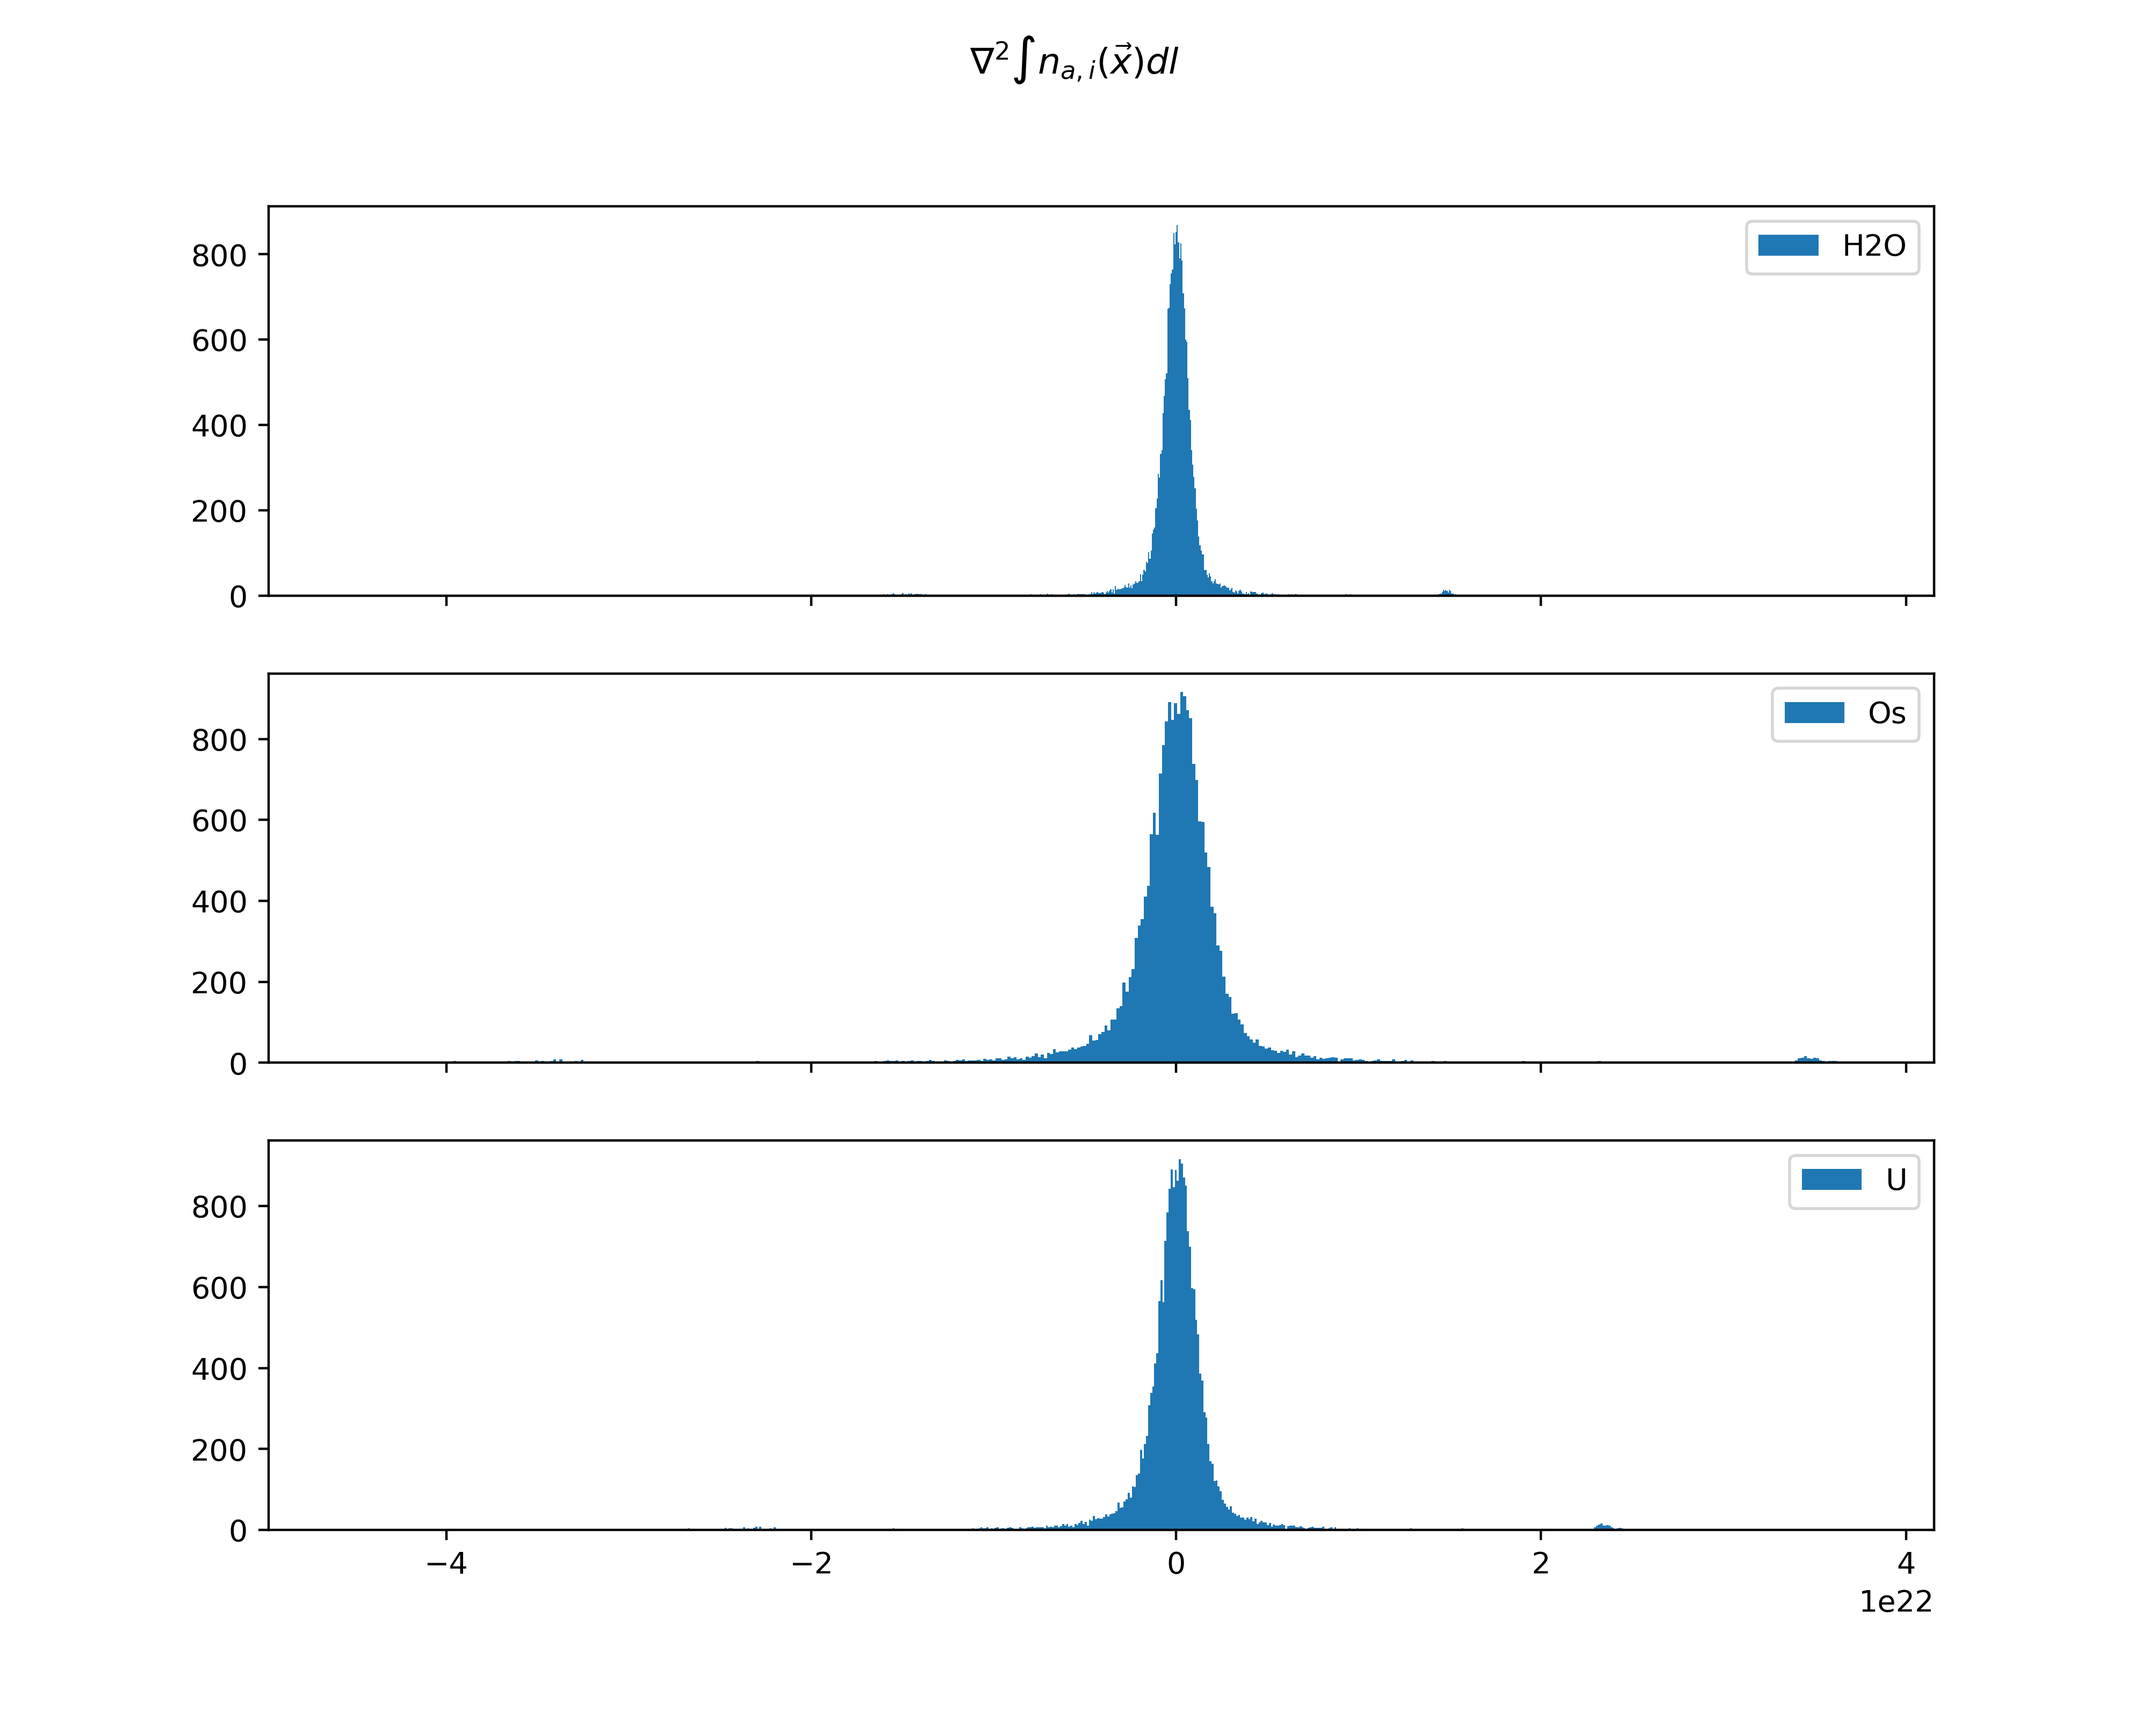
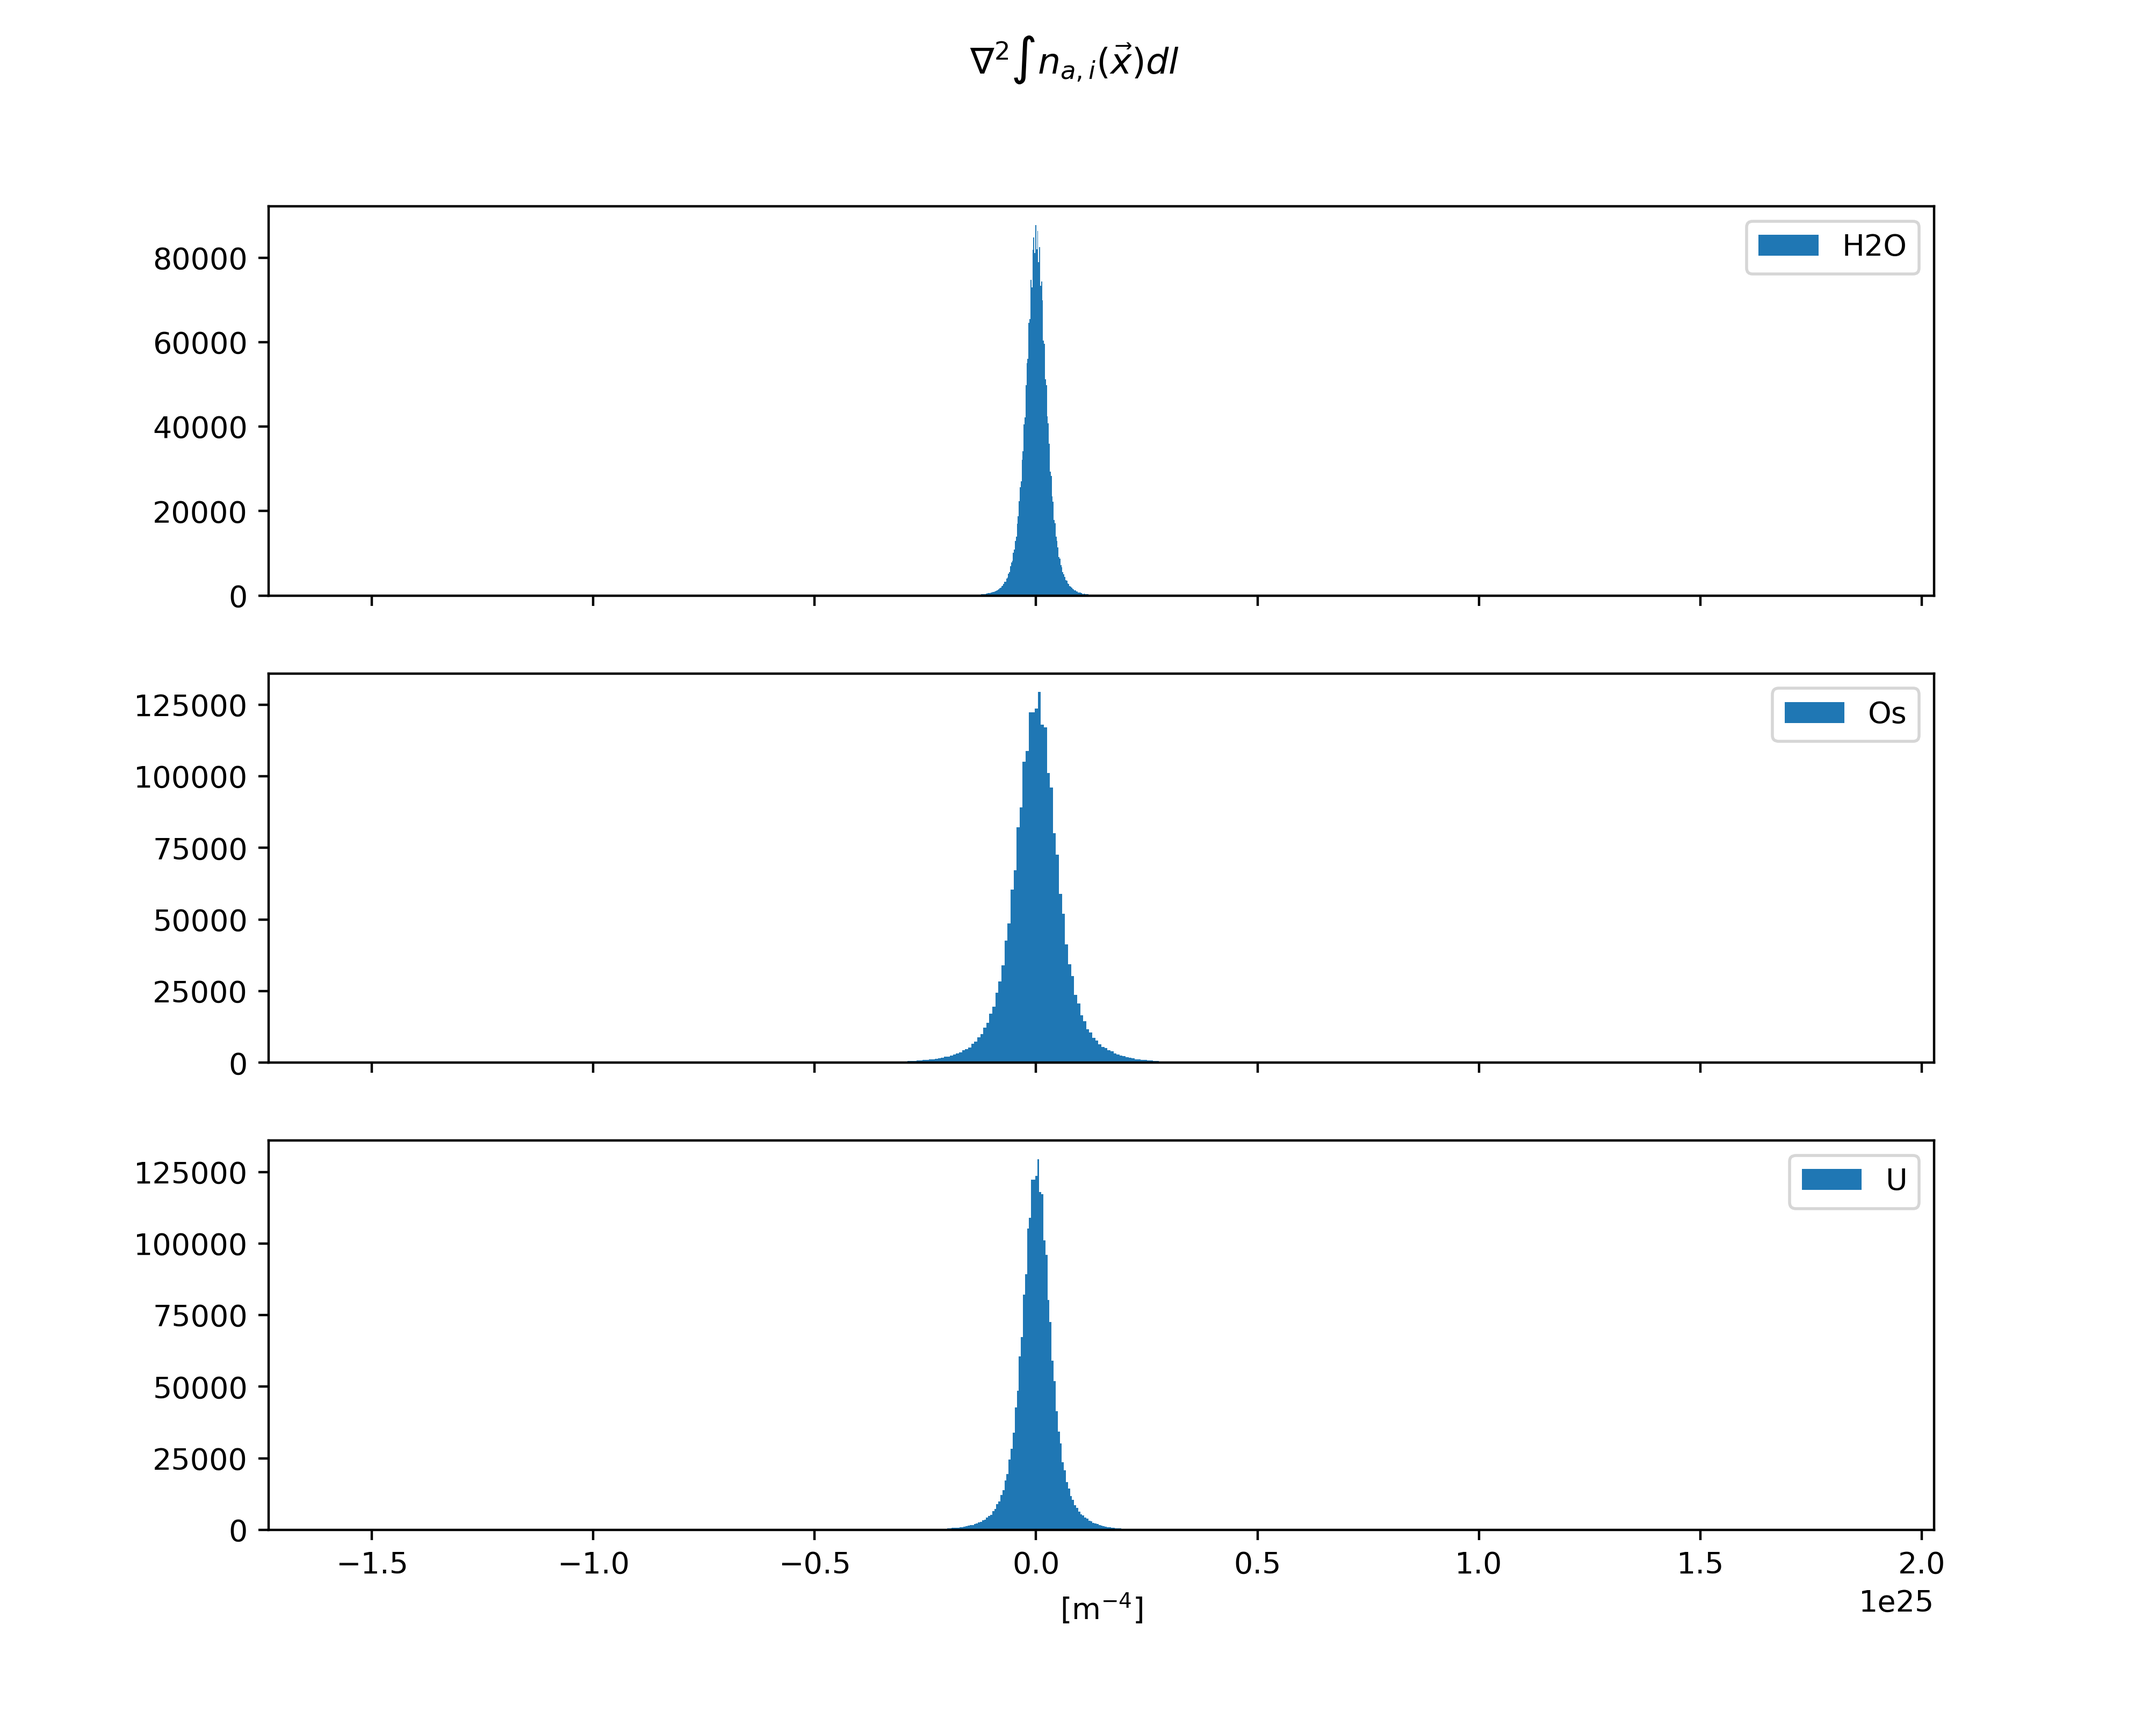
FIXES DIMENSION ERROR

diff --git a/tests/datatest.py b/tests/datatest.py
@@ -16,6 +16,16 @@ U = Material('../Data/Spectra/f1_U.txt', '../Data/Spectra/f2_U.txt')
 H2O = Material('../Data/Spectra/f1_H2O_interp.txt',
                '../Data/Spectra/f2_H20.txt')
 
+# SPECTRUM PLOT FOR GROUP MEETING
+# plt.plot(Al.E, Al.I0, label='1 mm Al, 3 mrad')
+# plt.plot(Ti.E, Ti.I0, label='1 mm Ti, 2 mrad')
+# plt.xlabel('E [keV]')
+# plt.ylabel('Intensity [photons/s/0.1% BW/$mrad^2$')
+# plt.title(r'$I_0^{(j)}$')
+# plt.legend()
+# plt.savefig('../Notes/group_meeting_11_15/figs/spectra.png', dpi=400)
+
+
 # Constants
 r_e = 2.818e-15  # m [Jacobsen, Kirz, Howells chapter]
 R2 = 0.30  # m [.setup files]
@@ -27,15 +37,15 @@ U.A = 238.02891  # g / mol  https://en.wikipedia.org/wiki/Uranium
 H2O.A = 18.01488  # g / mol https://en.wikipedia.org/wiki/Molar_mass
 
 pix_size = 1.24e-6  # m [.setup files]
-width = 1920 * pix_size * 100  # cm
+width = 1920 * pix_size  # m
 
 # Calculating number densities with formular from [Jacobsen, Kirz, Howells]
 # Densities from the above cited wiki pages.
 # Note these are actually the number density LINE INTEGRALS in
 # particles / cm^2.
-H2O.ndens = 1 * Na / H2O.A * width
-Os.ndens = 22.59 * Na / Os.A * width
-U.ndens = 19.1 * Na / U.A * width
+H2O.ndens = 1 * Na / H2O.A * width * 100e3  # particles / m^2
+Os.ndens = 22.59 * Na / Os.A * width * 100e3  # particles / m^2
+U.ndens = 19.1 * Na / U.A * width * 100e3  # particles / m^2
 
 # Reading in image files to calculate "Laplacian Spectrums"
 Al_phant = TIFF.open('../Data/Projection_Tifs/Al_1080.tif', 'r').read_image()
@@ -62,7 +72,7 @@ U.lap = laplace(U.phant)
 
 def forwardmodel(metal=Os, spect=Al, H2O=H2O):
     '''
-    Matches all array sizes, calculates laplacian of phi and transmission factor, 
+    Matches all array sizes, calculates laplacian of phi and transmission factor,
     Integrates over energy to calculate the full measured intensity, Im_full
     and the transmission-only intensity Im_trans
     '''
@@ -81,47 +91,47 @@ def forwardmodel(metal=Os, spect=Al, H2O=H2O):
     print('Calculating lap_phi_E...')
     lap_phi_E = calc_lap_phi(spect, H2O, metal)
 
-    # plt.close()
-    # plt.hist(lap_phi_E.flatten(), bins=500)
-    # plt.xlabel(r'$\nabla^2 \phi(E)$')
-    # plt.title('Spectrum: {}\n Metal: {}'.format(nspect, nmet))
-    # plt.savefig(
-    #     '../Data/Spectra/data_plots/lap_{}_{}.png'.format(nspect, nmet), dpi=400)
-
-    print('Calculating T_E...')
-    T_E = calc_T(spect, H2O, metal)
-
-    print('Calculating Im...')
-    Im_full = np.array([E[i] * spect.I0_int[i] *
-                        T_E[:, :, i] * (1 + R2 / spect.K_int[i] *
-                                        lap_phi_E[:, :, i]) for i in range(E.size)]).sum(axis=0)
-    Im_trans = np.array([E[i] * spect.I0_int[i] * T_E[:, :, i]
-                         for i in range(E.size)]).sum(axis=0)
-
-    # Im_phase = np.array([E[i] * spect.I0_int[i] *
-    #                      (1 + R2 / spect.K_int[i] *
-    # lap_phi_E[:, :, i]) for i in range(E.size)]).sum(axis=0)
-
-    # ph_factor = np.array([(1 + R2 / spect.K_int[i] * lap_phi_E[:, :, i])
-    #                       for i in range(E.size)])
-
-    return Im_full, Im_trans
-
-
-def saveresults(result, fn):
-    '''
-    Saves a histogram of the results
-    '''
     plt.close()
-    plt.hist(result.flatten(), bins=500)
-    if fn is not None:
-        plt.title(fn)
-        plt.xlabel('Percent Difference')
-        plt.savefig('../Data/Spectra/Results/new_phant/' +
-                    fn + '.png', dpi=400)
-        plt.close()
-    else:
-        plt.show()
+    plt.hist(lap_phi_E.flatten(), bins=500)
+    plt.xlabel(r'$\nabla^2 \phi(E)$')
+    plt.title('Spectrum: {}\n Metal: {}'.format(nspect, nmet))
+    plt.savefig(
+        '../Data/Spectra/data_plots/lap_{}_{}.png'.format(nspect, nmet), dpi=400)
+
+#     print('Calculating T_E...')
+#     T_E = calc_T(spect, H2O, metal)
+
+#     print('Calculating Im...')
+#     Im_full = np.array([E[i] * spect.I0_int[i] *
+#                         T_E[:, :, i] * (1 + R2 / spect.K_int[i] *
+#                                         lap_phi_E[:, :, i]) for i in range(E.size)]).sum(axis=0)
+#     Im_trans = np.array([E[i] * spect.I0_int[i] * T_E[:, :, i]
+#                          for i in range(E.size)]).sum(axis=0)
+
+#     # Im_phase = np.array([E[i] * spect.I0_int[i] *
+#     #                      (1 + R2 / spect.K_int[i] *
+#     # lap_phi_E[:, :, i]) for i in range(E.size)]).sum(axis=0)
+
+#     # ph_factor = np.array([(1 + R2 / spect.K_int[i] * lap_phi_E[:, :, i])
+#     #                       for i in range(E.size)])
+
+#     return Im_full, Im_trans
+
+
+# def saveresults(result, fn):
+#     '''
+#     Saves a histogram of the results
+#     '''
+#     plt.close()
+#     plt.hist(result.flatten(), bins=500)
+#     if fn is not None:
+#         plt.title(fn)
+#         plt.xlabel('Percent Difference')
+#         plt.savefig('../Data/Spectra/Results/new_phant/' +
+#                     fn + '.png', dpi=400)
+#         plt.close()
+#     else:
+#         plt.show()
 
 #                                 LAPLACIAN of n_{a,i} PLOT
 
@@ -138,74 +148,74 @@ def saveresults(result, fn):
 
 # axes[2].hist(U.lap.flatten(), bins=500, label='U')
 # axes[2].legend()
+# axes[2].set_xlabel('[m$^{-4}$]')
 
 # fig.suptitle(r'$\nabla^2 \int n_{a,i}(\vec{x}) dl$')
 
 # plt.savefig('../Data/Spectra/data_plots/laplacians.png', dpi=400)
 
 
-#                               F1 AND F2 PLOT
+# #                               F1 AND F2 PLOT
 
-# plt.close()
-# axf1 = plt.subplot(2, 1, 1)
-# axf2 = plt.subplot(2, 1, 2)
-# labels = ['H2O', 'Os', 'U']
+# # plt.close()
+# # axf1 = plt.subplot(2, 1, 1)
+# # axf2 = plt.subplot(2, 1, 2)
+# # labels = ['H2O', 'Os', 'U']
 
-# for i, mat in enumerate([H2O, Os, U]):
-#     axf1.plot(mat.E, mat.f1, label=labels[i])
-#     axf1.legend()
-#     axf2.plot(mat.E, mat.f2, label=labels[i])
-#     axf2.legend()
+# # for i, mat in enumerate([H2O, Os, U]):
+# #     axf1.plot(mat.E, mat.f1, label=labels[i])
+# #     axf1.legend()
+# #     axf2.plot(mat.E, mat.f2, label=labels[i])
+# #     axf2.legend()
 
-# axf1.set_title('f1 vs. E')
-# axf1.set_xlabel('E [keV]')
-# axf1.set_ylabel('f1')
-# axf2.set_title('f2 vs. E')
-# axf2.set_xlabel('E [keV]')
-# axf2.set_ylabel('f2')
-# plt.tight_layout()
+# # axf1.set_title('f1 vs. E')
+# # axf1.set_xlabel('E [keV]')
+# # axf1.set_ylabel('f1')
+# # axf2.set_title('f2 vs. E')
+# # axf2.set_xlabel('E [keV]')
+# # axf2.set_ylabel('f2')
+# # plt.tight_layout()
 
-# plt.savefig('../Data/Spectra/f1_f2.png', dpi=400, bbox_inches='tight')
+# # plt.savefig('../Data/Spectra/f1_f2.png', dpi=400, bbox_inches='tight')
 
 
+# #                        Subtraction histogram plots
+# for metal in [Os, U]:
+#     '''
+#     For each metal, saves histogram of the percent difference between the full-
+#     and transmission-only measured intensities for each filter, as well as the
+#     percent difference in full- and transmission-only subtractions between the
+#     two filters. Also saves .png file of full subtraction
+#     '''
 
-#                        Subtraction histogram plots
-for metal in [Os, U]:
-    '''
-    For each metal, saves histogram of the percent difference between the full-
-    and transmission-only measured intensities for each filter, as well as the
-    percent difference in full- and transmission-only subtractions between the
-    two filters. Also saves .png file of full subtraction
-    '''
+#     if metal is Os:
+#         nmet = 'Os'
+#     elif metal is U:
+#         nmet = 'U'
 
-    if metal is Os:
-        nmet = 'Os'
-    elif metal is U:
-        nmet = 'U'
+#     print('{}:'.format(nmet))
 
-    print('{}:'.format(nmet))
+#     imAl, imAlT, imAlPh = forwardmodel(metal, Al)
+#     imTi, imTiT, imTiPh = forwardmodel(metal, Ti)
 
-    imAl, imAlT, imAlPh = forwardmodel(metal, Al)
-    imTi, imTiT, imTiPh = forwardmodel(metal, Ti)
+#     print('Saving phase histogram...')
+#     saveresults((imAlPh - imTiPh) / imAlPh * 100, '{}/{}_full_vs_ph')
 
-    print('Saving phase histogram...')
-    saveresults((imAlPh - imTiPh) / imAlPh * 100, '{}/{}_full_vs_ph')
+#     print('Saving histograms...')
+#     saveresults((imAl - imAlT) / imAl * 100,
+#                 '{}/{}_full_vs_T'.format(nmet, 'Al'))
+#     saveresults((imTi - imTiT) / imTi * 100,
+#                 '{}/{}_full_vs_T'.format(nmet, 'Ti'))
 
-    print('Saving histograms...')
-    saveresults((imAl - imAlT) / imAl * 100,
-                '{}/{}_full_vs_T'.format(nmet, 'Al'))
-    saveresults((imTi - imTiT) / imTi * 100,
-                '{}/{}_full_vs_T'.format(nmet, 'Ti'))
+#     sub = imAl - imTi
+#     subT = imAlT - imTiT
 
-    sub = imAl - imTi
-    subT = imAlT - imTiT
+#     saveresults((sub - subT) / sub * 100, '{}/E_sub_full_vs_T'.format(nmet))
 
-    saveresults((sub - subT) / sub * 100, '{}/E_sub_full_vs_T'.format(nmet))
-
-    print('Saving image...\n')
-    plt.imshow(sub, cmap=plt.cm.Greys_r)
-    plt.axis('off')
-    plt.tight_layout()
-    plt.savefig('../Data/Spectra/Results/{}/sub_im.png'.format(nmet),
-                dpi=1000, bbox_inches='tight')
-    plt.close()
+#     print('Saving image...\n')
+#     plt.imshow(sub, cmap=plt.cm.Greys_r)
+#     plt.axis('off')
+#     plt.tight_layout()
+#     plt.savefig('../Data/Spectra/Results/{}/sub_im.png'.format(nmet),
+#                 dpi=1000, bbox_inches='tight')
+#     plt.close()
